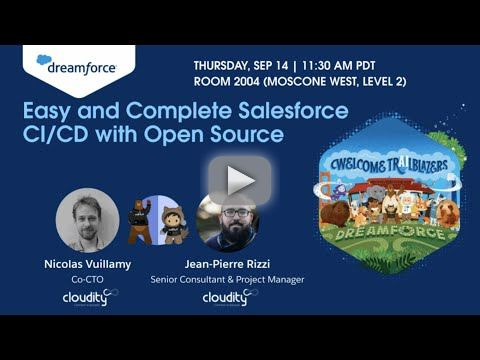
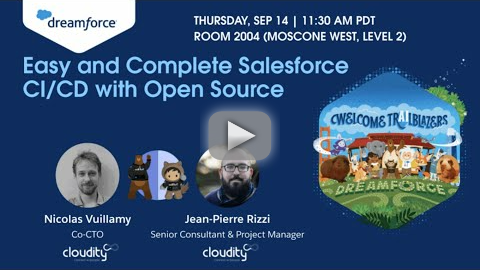
Doc (#839)
* Images

* Display number of package.xml items before or after retrieving them

* Update CHANGELOG.md

diff --git a/src/commands/hardis/org/monitor/backup.ts b/src/commands/hardis/org/monitor/backup.ts
@@ -13,7 +13,7 @@ import { NotifProvider, NotifSeverity } from '../../../../common/notifProvider/i
 import { MessageAttachment } from '@slack/web-api';
 import { getNotificationButtons, getOrgMarkdown, getSeverityIcon } from '../../../../common/utils/notifUtils.js';
 import { generateCsvFile, generateReportPath } from '../../../../common/utils/filesUtils.js';
-import { parsePackageXmlFile, writePackageXmlFile } from '../../../../common/utils/xmlUtils.js';
+import { countPackageXmlItems, parsePackageXmlFile, writePackageXmlFile } from '../../../../common/utils/xmlUtils.js';
 
 Messages.importMessagesDirectoryFromMetaUrl(import.meta.url);
 const messages = Messages.loadMessages('sfdx-hardis', 'org');
@@ -135,7 +135,8 @@ This command is part of [sfdx-hardis Monitoring](${CONSTANTS.DOC_URL_ROOT}/sales
     });
 
     // Retrieve sfdx sources in local git repo
-    uxLog(this, c.cyan(`Run the retrieve command for retrieving filtered metadatas ...`));
+    const nbRetrievedItems = await countPackageXmlItems(packageXmlBackUpItemsFile);
+    uxLog(this, c.cyan(`Run the retrieve command for retrieving ${c.bold(nbRetrievedItems)} filtered metadatas...`));
     try {
       await execCommand(
         `sf project retrieve start -x "${packageXmlBackUpItemsFile}" -o ${flags['target-org'].getUsername()} --ignore-conflicts --wait 120`,

diff --git a/src/common/utils/deployUtils.ts b/src/common/utils/deployUtils.ts
@@ -1049,6 +1049,8 @@ export async function buildOrgManifest(
     await writeXmlFile(packageXmlFull, parsedPackageXml);
   }
 
+  const nbRetrievedItems = await countPackageXmlItems(packageXmlFull);
+  uxLog(this, c.cyan(`Full org package.xml contains ${c.bold(nbRetrievedItems)} items`))
   return packageXmlFull;
 }
 

diff --git a/docs/salesforce-monitoring-config-home.md b/docs/salesforce-monitoring-config-home.md
@@ -24,7 +24,7 @@ description: Learn how to configure a monitoring repository for a Salesforce Org
 
 All you need to configure sfdx-hardis Org Monitoring is a **GitHub** , **Gitlab**, **Azure** or **BitBucket** repository.
 
-- Create and clone a git repository
+- Create and clone a git repository (initialize it with README)
 - Open it with Visual Studio Code, then open [VsCode SFDX Hardis](https://marketplace.visualstudio.com/items?itemName=NicolasVuillamy.vscode-sfdx-hardis) extension menu.
   - If you need installations instructions, please [visit documentation page](salesforce-ci-cd-use-install.md)
 

diff --git a/CHANGELOG.md b/CHANGELOG.md
@@ -4,7 +4,11 @@
 
 Note: Can be used with `sfdx plugins:install sfdx-hardis@beta` and docker image `hardisgroupcom/sfdx-hardis@beta`
 
+## [5.2.3] 2024-10-19
+
 - Change default `.mega-linter.yml` config
+- Display number of package.xml items before or after retrieving them
+- Doc: Update youtube preview images
 
 ## [5.2.2] 2024-10-14
 
